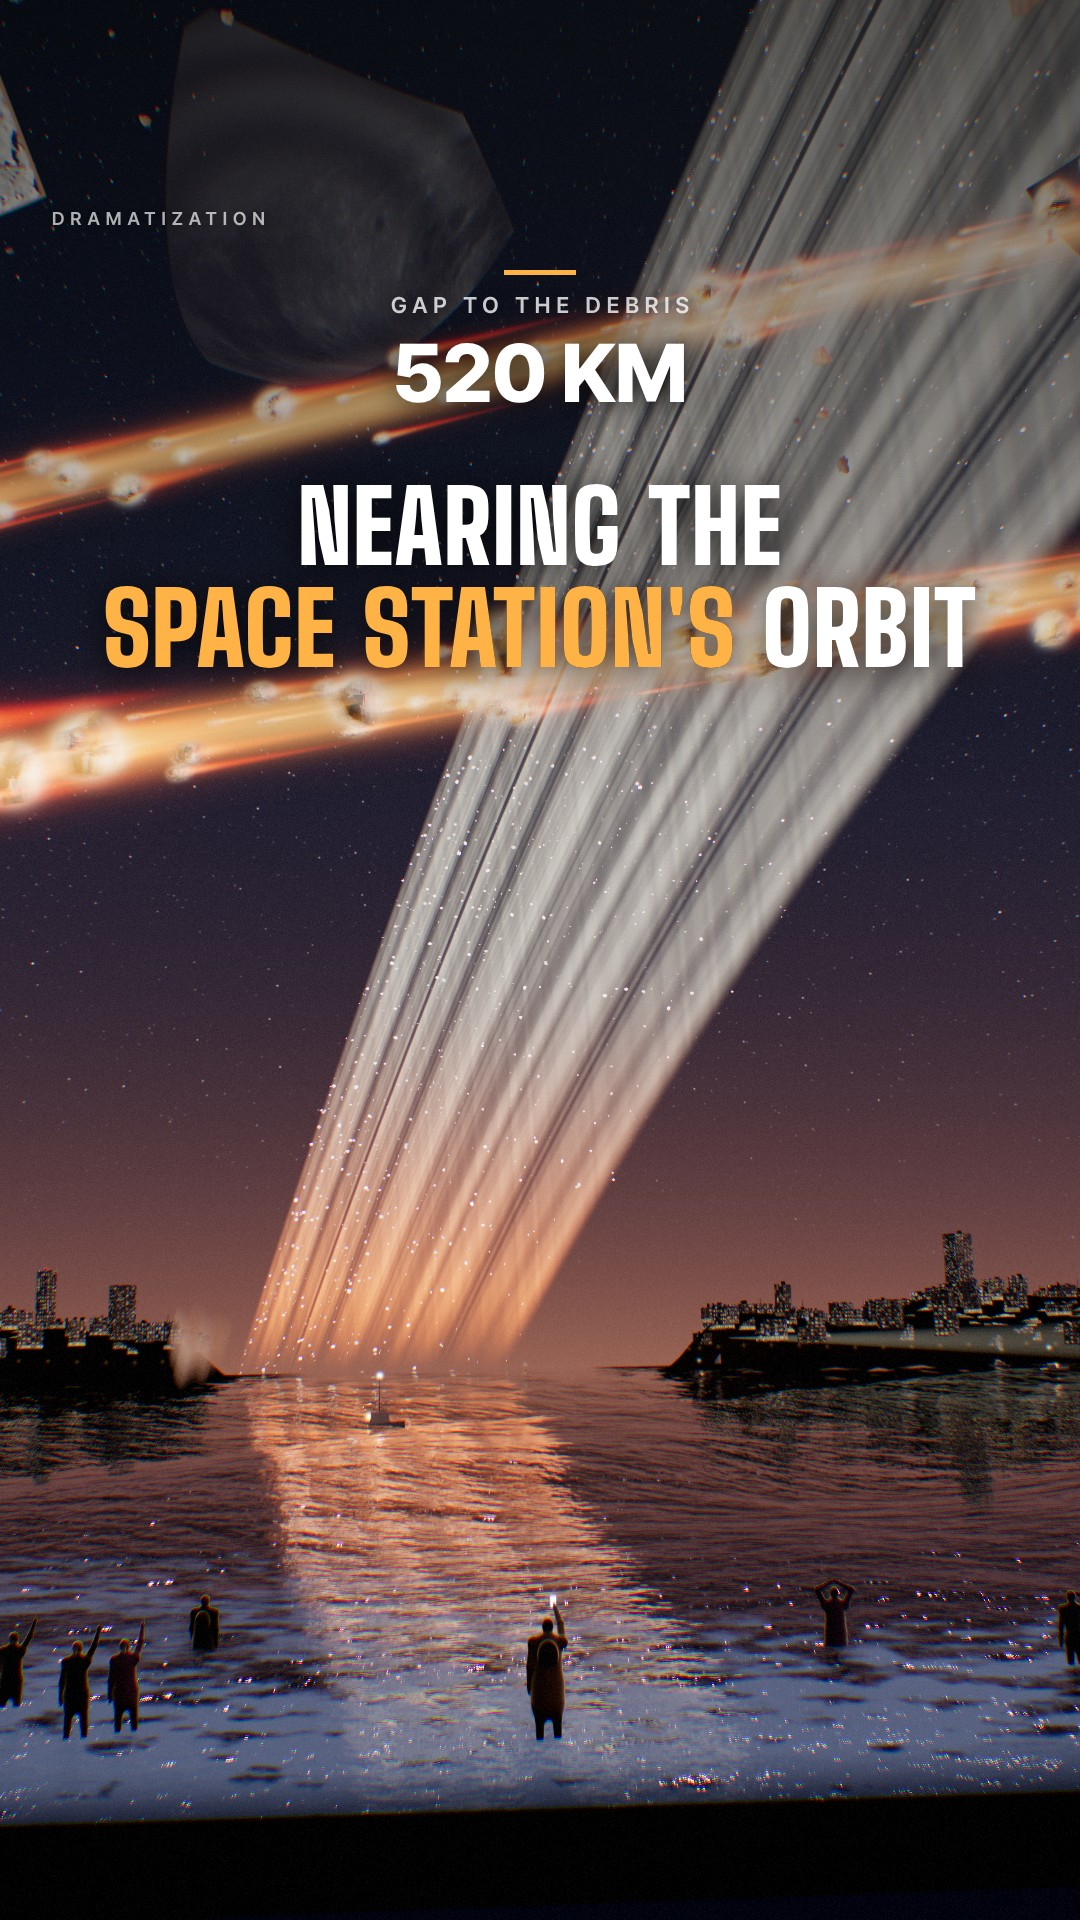
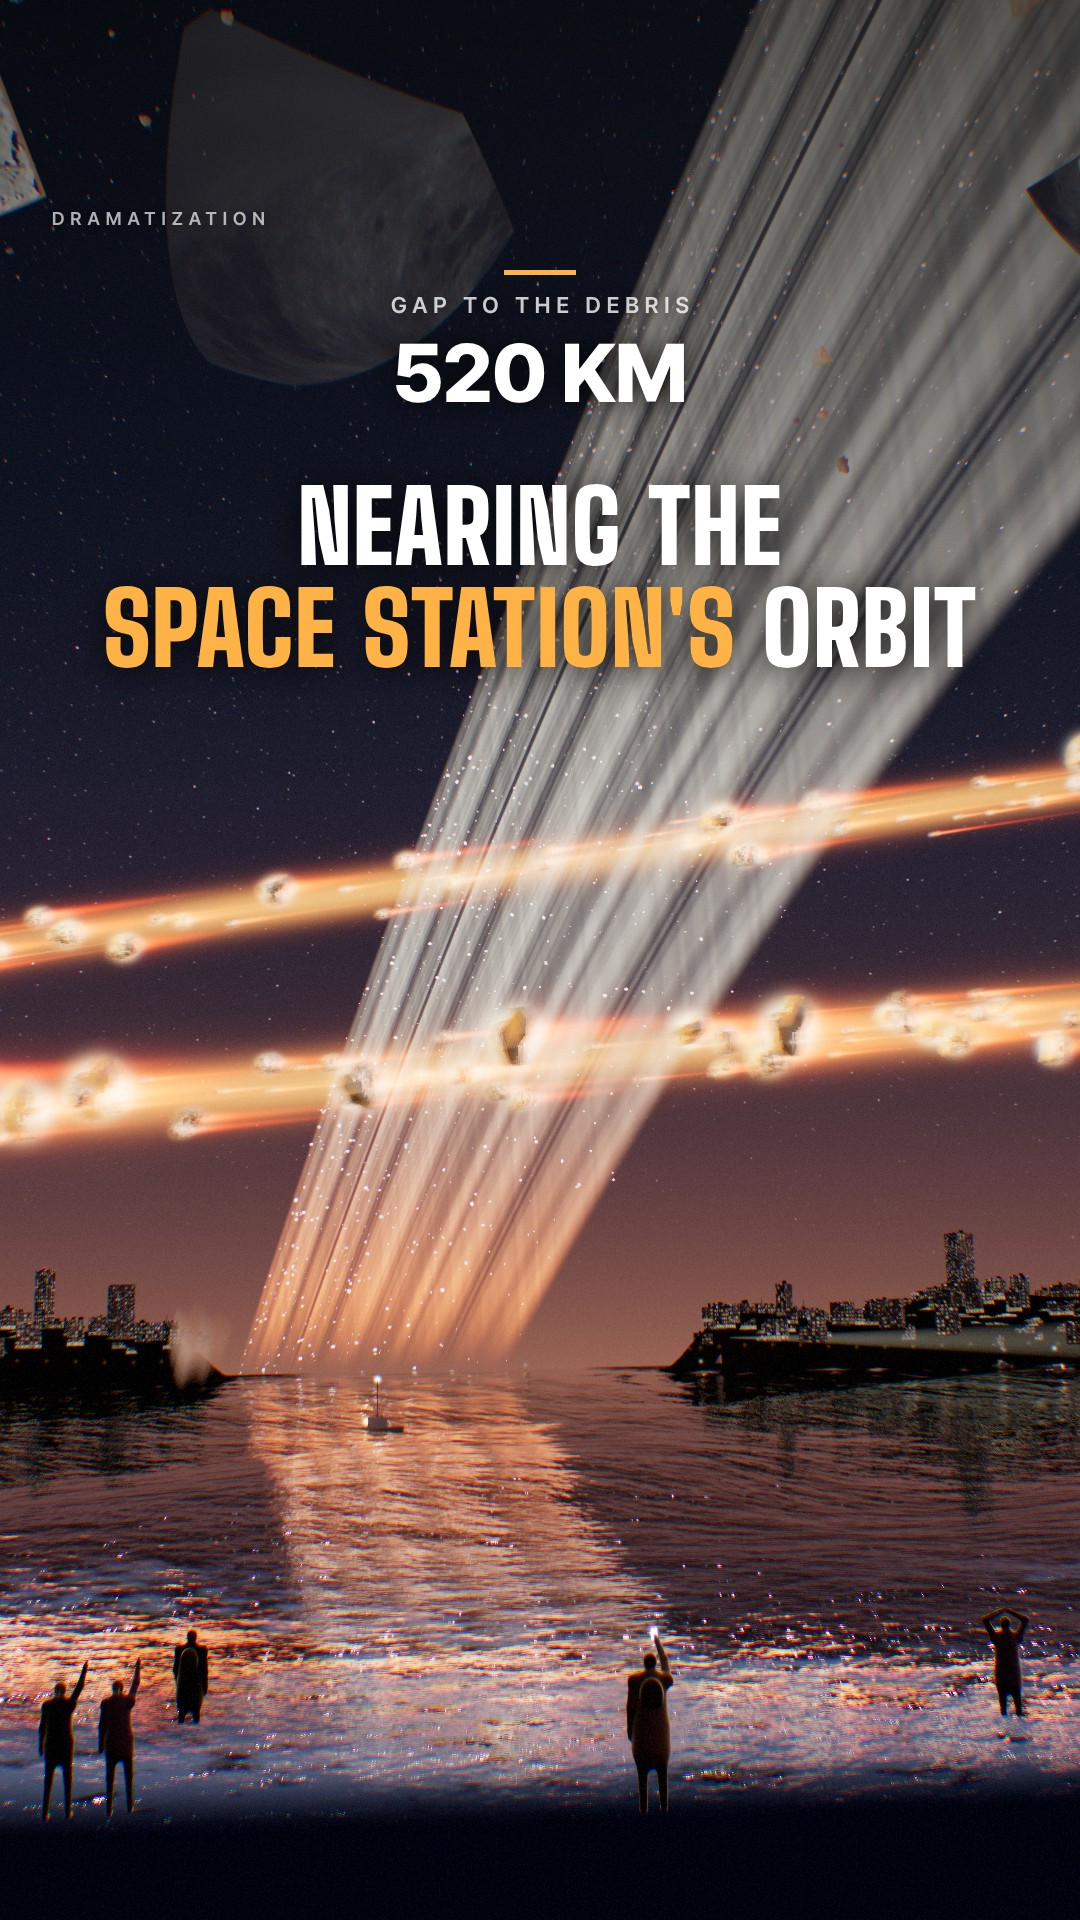
s11_iss final (Builder C); trim breakup chunks in s07/s08 (same picture, ~6x cheaper)
Claude-Session: https://claude.ai/code/session_01Uoesa7SyZBCS3AG5umBDCR

diff --git a/projects/moon-2x/src/s08_split.js b/projects/moon-2x/src/s08_split.js
@@ -5,6 +5,7 @@ import { createStudio, THREE } from '@engine/engine.js';
 import { applyCam, shake } from '@engine/camera.js';
 import { createCrowd } from '@engine/crowd.js';
 import { createBreakup } from '@engine/breakup.js';
+import { trimBreakup } from '@engine/debris.js';
 import { groundH, sField } from '@engine/bay.js';
 import { clamp, lerp, rng, smoother } from '@engine/util.js';
 import { bayWorld, D2R, SHOT, dirThroughScreen } from './kit.js';
@@ -12,6 +13,7 @@ import { angRadius } from './story.js';
 const S = createStudio({ samples: 8, post: { exposure: 1.05, bloom: 0.18, bloomThreshold: 1.5, bloomRadius: 0.6, vignette: 0.5, grain: 0.03, sat: 1.06, contrast: 1.06 } });
 const W = bayWorld(S, { pierYaw: 3 * D2R });
 const B = createBreakup(S, { moon: { sunI: 1.3, normalScale: 2.0 }, rubble: 1400 });
+trimBreakup(B);   // each chunk keeps only its own triangles: same picture, far cheaper
 // camera on the hillside inland of the inner shore, looking out over the town and the flooded bay to the mouth
 const CX = 40, CZ = 260; const camBase = new THREE.Vector3(CX, groundH(CX, CZ) + 38, CZ);
 // crowd on the hill crest just below the camera, silhouetted against the bay (55–75 m away)

diff --git a/projects/moon-2x/src/s07_roche.js b/projects/moon-2x/src/s07_roche.js
@@ -5,6 +5,7 @@ import { createStudio, THREE } from '@engine/engine.js';
 import { applyCam, shake, kick } from '@engine/camera.js';
 import { createCrowd, createHero, createBirds } from '@engine/crowd.js';
 import { createBreakup } from '@engine/breakup.js';
+import { trimBreakup } from '@engine/debris.js';
 import { clamp, rng } from '@engine/util.js';
 import { bayWorld, D2R, SHOT, dirThroughScreen } from './kit.js';
 import { angRadius } from './story.js';
@@ -13,6 +14,7 @@ const PIER_YAW = 3 * D2R;
 const W = bayWorld(S, { shadows: true, pierYaw: PIER_YAW, pierLights: 4 });
 const P = W.bay.pier, DECK = P.deckY;
 const B = createBreakup(S, { moon: { sunI: 1.3, normalScale: 2.0 } });
+trimBreakup(B);   // each chunk keeps only its own triangles: same picture, far cheaper
 const R = rng(77); const people = [];
 for (let i = 0; i < 34; i++) { const side = i % 2 ? 1 : -1; const lz = -55 - R() * 95; const lx = side * (0.9 + R() * 1.3);
   const w = P.toWorld(lx, DECK, lz); people.push({ x: w.x, z: w.z, y: DECK, yaw: PIER_YAW + (R() - 0.5) * 0.5 }); }
